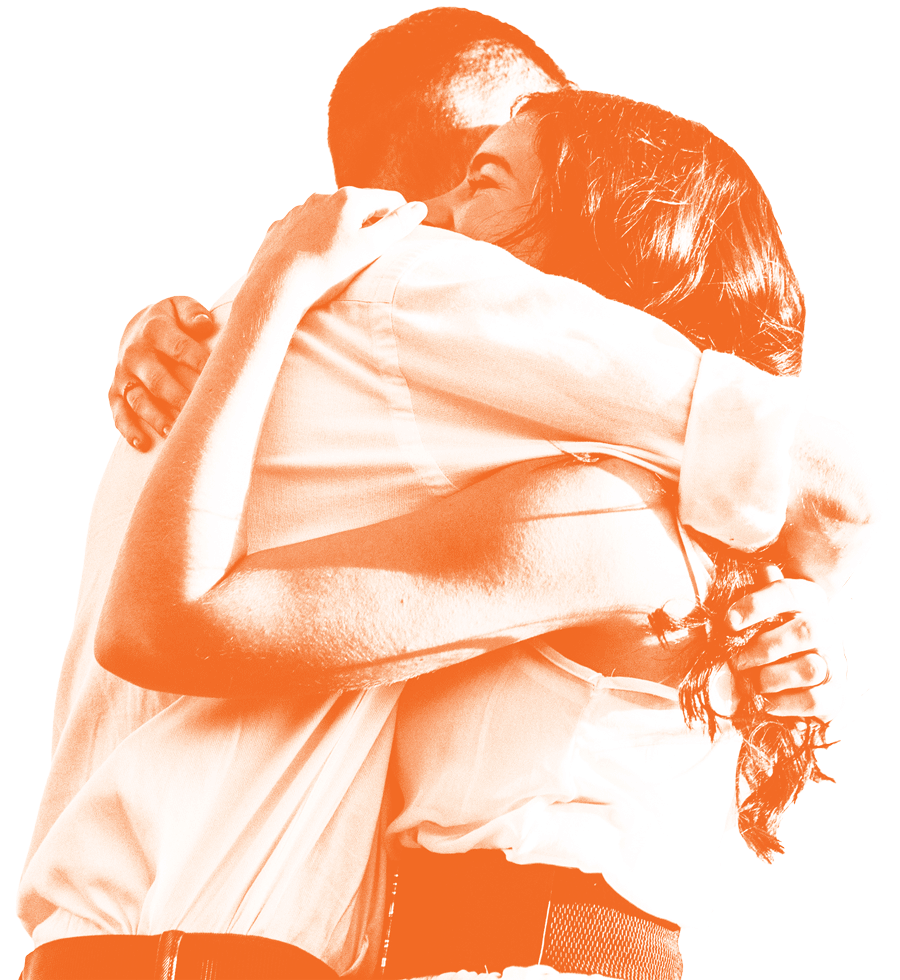
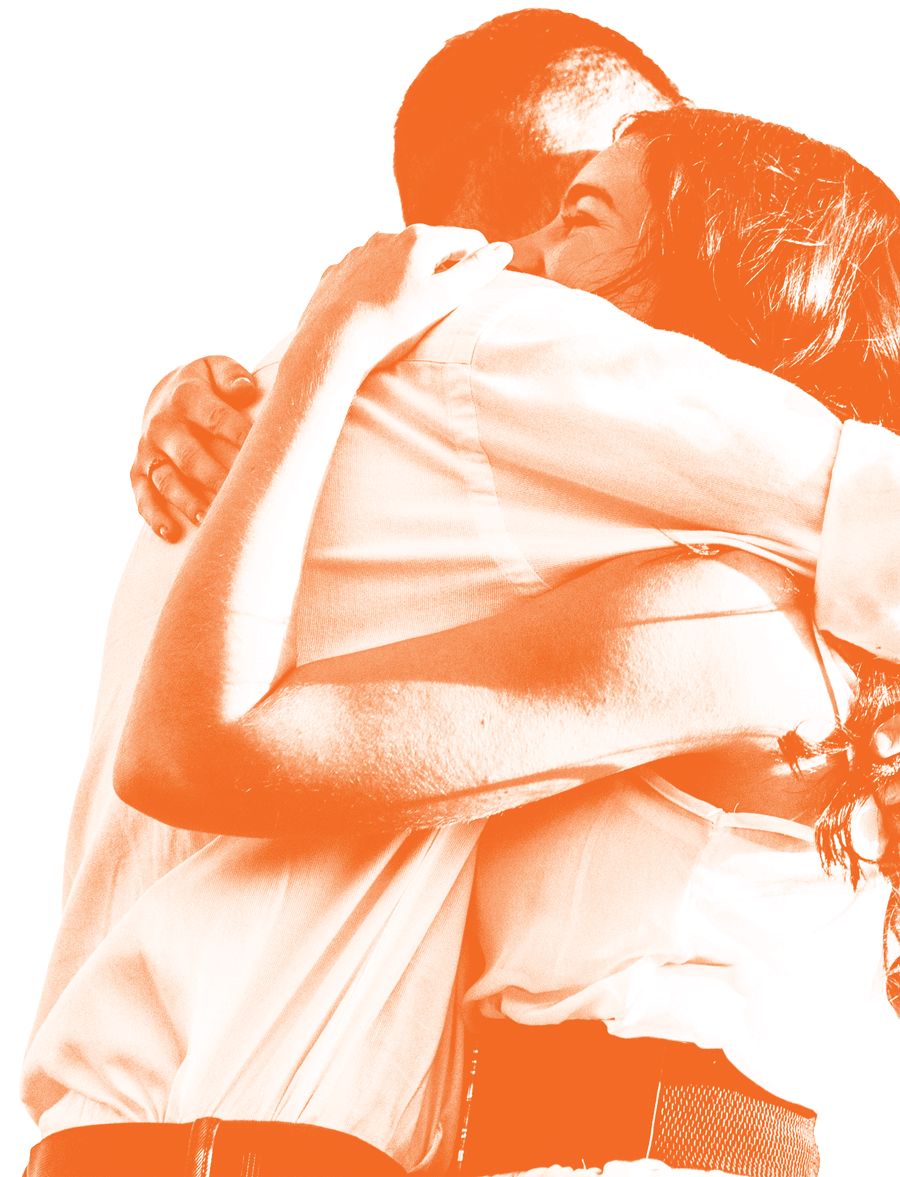
Update hero size

diff --git a/components/Hero.vue b/components/Hero.vue
@@ -4,7 +4,12 @@
       <div class="hero-motto">
         <span class="hero-motto-title">Acordar</span>
         <span class="hero-motto-subtitle">la política útil</span>
+              <div class="hero-buttons">
+        <b-button>Programa</b-button>
+        <b-button>Vídeo</b-button>
       </div>
+      </div>
+
     </div>
     <div class="hero-slides">
       <b-carousel id="carousel-no-animation" fade >
@@ -45,9 +50,11 @@
     right: 0;
     left: 0;
     z-index: -10;
+    mix-blend-mode: multiply;
 
     &-background {
       height: 70vh;
+      max-height: 750px;
       background-repeat: no-repeat;
       background-color: $body-bg;
     }
@@ -55,13 +62,13 @@
     &-hands {
       background-image: url('../assets/images/high-five.png');
       background-position: top right;
-      background-size: 800px;
+      background-size: 1030px;
     }
 
     &-hug {
       background-image: url('../assets/images/hug.png');
-      background-position: center right;
-      background-size: 800px;
+      background-position: right top;
+      background-size: 600px;
     }
   }
 
@@ -87,6 +94,46 @@
       font-weight: bold;
       background: $yellow;
       color: $body-color;
+    }
+  }
+}
+
+@include media-breakpoint-down(xs) {
+  .hero {
+    height: calc(100vh - 3.5rem);
+    align-items: flex-end;
+
+    &-motto {
+      margin-bottom: 2rem;
+
+      &-title {
+        font-size: 3.25rem;
+      }
+
+      &-subtitle {
+        font-size: 1.9rem;
+      }
+
+      span {
+        padding: 0 .75rem;
+        margin-bottom: 0.5rem;
+      }
+
+    }
+
+    &-slides {
+      &-background {
+        height: calc(100vh - 3.5rem);
+      }
+
+      &-hands {
+        background-size: 140%;
+        background-position: right center;
+      }
+      &-hug {
+        background-size: 125%;
+        background-position: bottom center;
+      }
     }
   }
 }
